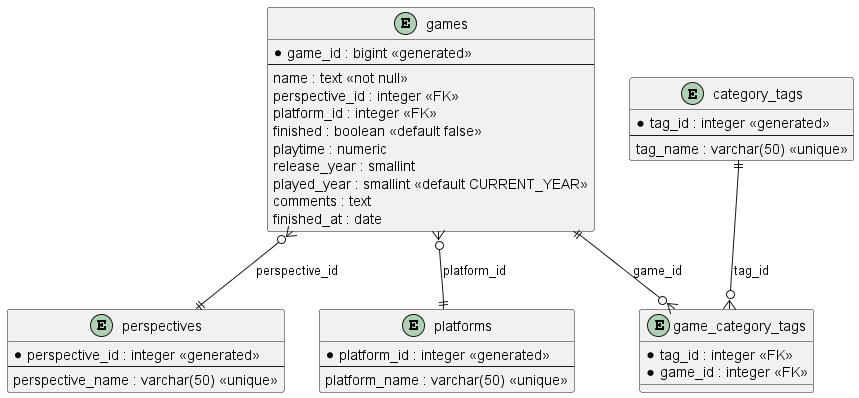
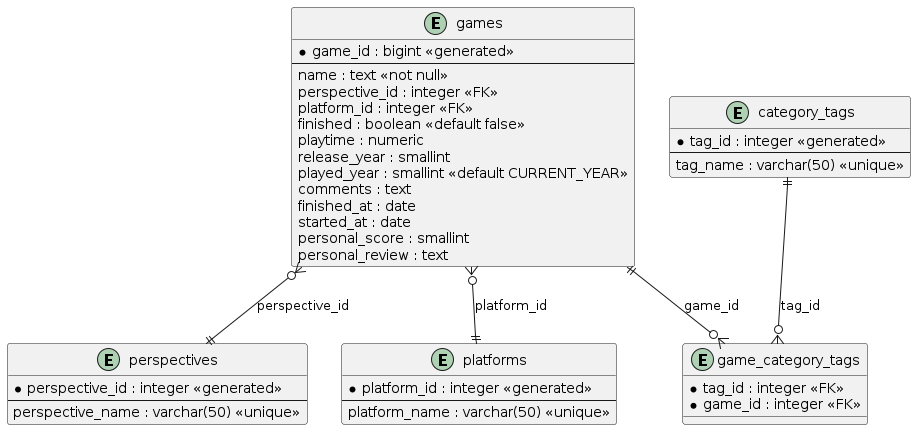
Update readme.md to reflect current project architecture (#5)
* Initial plan

* Update readme.md to reflect current project state

Agent-Logs-Url: https://github.com/thjunge11/simpleFlaskWebApp/sessions/9b4322a4-bdcd-4e41-a62c-be59647c1289

* erd update

* fix started_at

* env example

---------

diff --git a/readme.md b/readme.md
@@ -1,6 +1,6 @@
 # 🎮 Gaming Database App
 
-A Flask web application for managing and browsing a gaming database, containerized with Docker and powered by PostgreSQL.
+A Flask web application for managing and browsing a gaming database, containerized with Docker and powered by PostgreSQL. Features a secure HTTPS reverse proxy via Nginx, Redis caching, user authentication, and AI-powered game info via the Anthropic Claude API.
 
 ---
 
@@ -12,58 +12,84 @@ A Flask web application for managing and browsing a gaming database, containeriz
 - [Prerequisites](#prerequisites)
 - [Getting Started](#getting-started)
 - [Configuration](#configuration)
-- [Database preparation](#database-preparation)
+- [Database Preparation](#database-preparation)
 - [Running the App](#running-the-app)
 - [Accessing the App](#accessing-the-app)
+- [Authentication](#authentication)
 - [Database](#database)
+- [Redis Caching](#redis-caching)
+- [AI Features](#ai-features)
 - [Stopping the App](#stopping-the-app)
 - [Development](#development)
+- [Security Notes](#security-notes)
 - [Troubleshooting](#troubleshooting)
 
 ---
 
 ## Overview
 
-This application provides a full CRUD interface for managing a gaming library database. It supports browsing, filtering, sorting, and editing games, platforms, perspectives, and category tags.
+This application provides a full CRUD interface for managing a gaming library database. It supports browsing, filtering, sorting, and editing games, platforms, perspectives, and category tags. The app is served over HTTPS through an Nginx reverse proxy, uses Redis for caching, requires login authentication, and integrates with the Anthropic Claude API for AI-generated game information.
 
 ---
 
 ## 🛠 Tech Stack
 
-| Layer      | Technology         |
-|------------|--------------------|
-| Backend    | Python / Flask     |
-| Database   | PostgreSQL 16      |
-| ORM        | SQLAlchemy         |
-| Templating | Jinja2             |
-| Container  | Docker / Compose   |
+| Layer          | Technology              |
+|----------------|-------------------------|
+| Backend        | Python / Flask          |
+| Database       | PostgreSQL 16           |
+| ORM            | SQLAlchemy              |
+| Templating     | Jinja2                  |
+| Authentication | Flask-Login             |
+| Caching        | Redis 7                 |
+| Reverse Proxy  | Nginx (HTTPS)           |
+| AI Integration | Anthropic Claude API    |
+| Container      | Docker / Compose        |
 
 ---
 
 ## 📁 Project Structure
 
 ```
-project/
+simpleFlaskWebApp/
 ├── app/
 │   ├── Dockerfile
 │   ├── app.py
 │   ├── requirements.txt
 │   └── templates/
 │       ├── base.html
+│       ├── login.html
 │       ├── index.html
 │       ├── view_game.html
+│       ├── game_info.html
 │       ├── create_game.html
 │       ├── edit_game.html
 │       ├── search.html
+│       ├── timeline.html
 │       ├── platforms.html
+│       ├── create_platform.html
+│       ├── edit_platform.html
 │       ├── perspectives.html
+│       ├── create_perspective.html
+│       ├── edit_perspective.html
 │       ├── tags.html
+│       ├── create_tag.html
+│       ├── edit_tag.html
+│       ├── comments.html
 │       └── stats.html
-├── docker-compose.yml
+├── nginx/
+│   ├── Dockerfile
+│   └── nginx.conf
+├── utils/
+│   ├── assets/
+│   ├── db_struct.sql
+│   ├── deploy_to_EC2.md
+│   └── ...
+├── docker-compose.yaml
 ├── .env
 ├── .env.example
 ├── .gitignore
-└── README.md
+└── readme.md
 ```
 
 ---
@@ -123,6 +149,21 @@ DB_HOST=db
 DB_NAME=gaming
 DB_USER=postgres
 DB_PASS=your_secure_password_here
+
+# Flask
+SECRET_KEY=your_flask_secret_key_here
+
+# Authentication
+LOGIN_USERNAME=admin
+LOGIN_PASSWORD=your_login_password_here
+
+# Redis (optional overrides; defaults match docker-compose)
+REDIS_HOST=redis
+REDIS_PORT=6379
+
+# Anthropic Claude AI
+ANTHROPIC_API_KEY=your_anthropic_api_key_here
+CLAUDE_MODEL=claude-3-5-haiku-20241022
 ```
 
 ### `.env.example`
@@ -132,14 +173,22 @@ DB_HOST=db
 DB_NAME=gaming
 DB_USER=postgres
 DB_PASS=changeme
+SECRET_KEY=changeme
+LOGIN_USERNAME=admin
+LOGIN_PASSWORD=changeme
+REDIS_HOST=redis
+REDIS_PORT=6379
+ANTHROPIC_API_KEY=
+CLAUDE_MODEL=claude-3-5-haiku-20241022
 ```
 
 > ⚠ **Never commit your `.env` file to version control.** It is already included in `.gitignore`.
 
 ---
 
-## ⚙ Database preparation
-The postgres database structure can be setup with the SQL code in `db_struct_2026-02-24_145629.sql`
+## ⚙ Database Preparation
+
+The PostgreSQL database structure can be set up with the SQL script found in `utils/db_struct.sql`.
 
 ### Database structure:
 
@@ -179,8 +228,12 @@ docker compose up
 
 | Service    | URL                          |
 |------------|------------------------------|
-| Web App    | http://localhost:5000        |
+| Web App    | https://localhost            |
+| Web App (HTTP, redirects to HTTPS) | http://localhost |
 | PostgreSQL | localhost:**5435**           |
+| Redis      | localhost:**6379**           |
+
+> Traffic is served over HTTPS via the Nginx reverse proxy. HTTP requests on port 80 are automatically redirected to HTTPS on port 443. The self-signed certificate generated at build time will trigger a browser warning — this is expected for local/dev use.
 
 > The PostgreSQL port is mapped to `5435` (instead of the default `5432`) to avoid conflicts with any local PostgreSQL installation.
 
@@ -199,6 +252,21 @@ Database: gaming (or your DB_NAME value)
 User:     postgres (or your DB_USER value)
 Password: your_secure_password_here
 ```
+
+---
+
+## 🔐 Authentication
+
+The app requires a login to access any page. Credentials are configured via environment variables:
+
+```env
+LOGIN_USERNAME=admin
+LOGIN_PASSWORD=your_login_password_here
+```
+
+- Visit https://localhost — you will be redirected to the login page automatically.
+- After logging in, you will be redirected back to the originally requested page.
+- Use the logout link in the navigation bar to end your session.
 
 ---
 
@@ -236,6 +304,40 @@ cat backup.sql | docker compose exec -T db psql -U postgres -d gaming
 
 ---
 
+## ⚡ Redis Caching
+
+Redis is used to cache frequently accessed data and improve response times. It runs as a separate container (`redis:7-alpine`) with:
+
+- **Persistent storage** via a named Docker volume (`redis_data_volume`).
+- **Health checks** to ensure Redis is ready before the web app starts.
+
+### View Redis logs
+
+```bash
+docker compose logs -f redis
+```
+
+### Connect to Redis CLI
+
+```bash
+docker compose exec redis redis-cli
+```
+
+---
+
+## 🤖 AI Features
+
+The app integrates with the **Anthropic Claude API** to provide AI-generated game information. Set your API key and preferred model in `.env`:
+
+```env
+ANTHROPIC_API_KEY=your_anthropic_api_key_here
+CLAUDE_MODEL=claude-3-5-haiku-20241022
+```
+
+If `ANTHROPIC_API_KEY` is not set, AI-powered features will not be available but the rest of the app will work normally.
+
+---
+
 ## 🛑 Stopping the App
 
 ### Stop containers (keep data)
@@ -265,6 +367,12 @@ docker compose logs -f web
 
 # Database only
 docker compose logs -f db
+
+# Nginx only
+docker compose logs -f nginx
+
+# Redis only
+docker compose logs -f redis
 ```
 
 ### Restart a single service
@@ -292,14 +400,14 @@ docker compose up --build
 
 ## 🔒 Security Notes
 
-- Change the default `DB_PASS` to a strong password before deploying
+- Change the default `DB_PASS` and `LOGIN_PASSWORD` to strong values before deploying.
 - Generate a secure Flask `SECRET_KEY`:
   ```bash
   python -c "import secrets; print(secrets.token_hex(32))"
   ```
-- Never expose the database port (`5435`) publicly in production
-- Use HTTPS in production with a reverse proxy (e.g. nginx)
-- Note: ssl_context='adhoc' generates a new cert on every restart, which is fine for local/dev use. For production, you'd want a real cert (e.g., Let's Encrypt via nginx) or mount a persistent cert file into the container.
+- Never expose the database port (`5435`) or Redis port (`6379`) publicly in production.
+- The Nginx container generates a self-signed TLS certificate at build time (valid for localhost/dev). For production, replace it with a certificate from a trusted CA (e.g., Let's Encrypt).
+- Keep your `ANTHROPIC_API_KEY` secret and never commit it to version control.
 
 ---
 
@@ -317,14 +425,27 @@ docker compose logs db
 docker compose ps
 ```
 
+### Web app can't connect to Redis
+
+The web service also waits for the Redis health check. Check Redis logs:
+
+```bash
+docker compose logs redis
+```
+
 ### Port already in use
 
-If port `5000` or `5435` is already in use, change the mapping in `docker-compose.yml`:
+If port `80`, `443`, or `5435` is already in use, change the mapping in `docker-compose.yaml`:
 
 ```yaml
 ports:
-  - "5001:5000"   # Change 5000 to another port
+  - "8080:80"   # Change 80 to another port
+  - "8443:443"  # Change 443 to another port
 ```
+
+### Browser shows a certificate warning
+
+The Nginx container uses a self-signed certificate generated at build time. This is expected for local development. Accept the warning to proceed.
 
 ### Data not persisting
 
@@ -340,7 +461,6 @@ docker compose up --build
 ---
 
 ## 📝 License
-
 
 This project is licensed under the MIT License.
 
